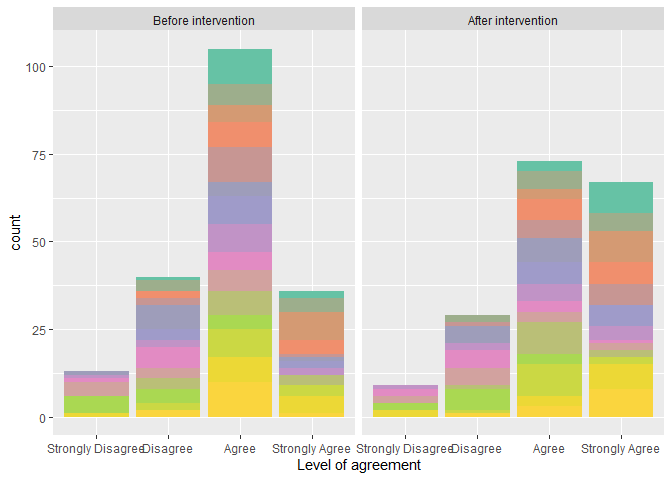
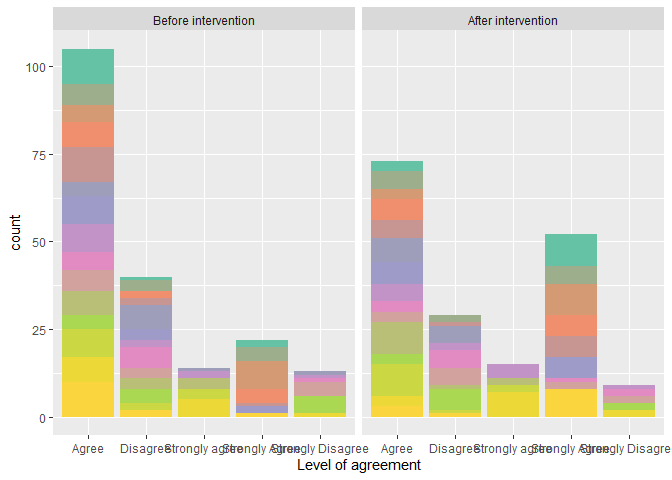
Updated instruction file

diff --git a/R/rock_climbing_data_clean.md b/R/rock_climbing_data_clean.md
@@ -1,4 +1,4 @@
-Rock climbing survey data claning & analysis
+Rock climbing survey data claning
 ================
 Sunny Tseng
 2023-03-05
@@ -123,23 +123,7 @@ compiled a dataframe to show individual participant information.
 # There are many mis-match between s3 and s1&s2. Need check!
 
 names(data_c1_s1_clean_1)[23] <- names(data_c1_s2_clean)[23] 
-data_c1_clean <- bind_rows(data_c1_s1_clean_1, data_c1_s2_clean) %>%
-    mutate_at(c(5:24), ~recode(., "Strongly Agree" = 4,
-                             "Strongly agree" = 4,
-                             "Agree" = 3,
-                             "Disagree" = 2,
-                             "Strongly Disagree" = 1,
-                             "Strongly disagree" = 1),
-            na.rm = TRUE) %>%
-    mutate_at(c(5:24), ~recode(., "4" = "Strongly Agree",
-                               "3" = "Agree",
-                               "2" = "Disagree",
-                               "1" = "Strongly Disagree")) %>%
-    mutate_at(c(5:24), ~ factor(., levels = c("Strongly Disagree",
-                                              "Disagree",
-                                              "Agree",
-                                              "Strongly Agree"))) 
-
+data_c1_clean <- bind_rows(data_c1_s1_clean_1, data_c1_s2_clean) 
 
 data_c1_clean %>% str()
 ```
@@ -149,26 +133,26 @@ data_c1_clean %>% str()
     ##  $ Collector ID                                                                                       : num [1:25] 2.7e+08 2.7e+08 2.7e+08 2.7e+08 2.7e+08 ...
     ##  $ indoor_style_practice                                                                              : chr [1:25] "Bouldering" "Bouldering" "Bouldering" "Bouldering" ...
     ##  $ outdoor_style_practice                                                                             : chr [1:25] "Bouldering" "" "" "" ...
-    ##  $ I love to climb                                                                                    : Factor w/ 4 levels "Strongly Disagree",..: 3 3 2 3 3 2 3 3 3 4 ...
-    ##  $ Climbing is fun                                                                                    : Factor w/ 4 levels "Strongly Disagree",..: 3 3 3 3 4 2 3 3 3 4 ...
-    ##  $ I am motivated to climb                                                                            : Factor w/ 4 levels "Strongly Disagree",..: 3 3 3 3 3 3 2 3 2 4 ...
-    ##  $ I feel encouraged in my climbing                                                                   : Factor w/ 4 levels "Strongly Disagree",..: 3 3 2 3 4 2 3 3 3 4 ...
-    ##  $ I feel hindered in my climbing                                                                     : Factor w/ 4 levels "Strongly Disagree",..: 1 2 3 2 2 4 2 3 2 3 ...
-    ##  $ I am inspired to climb by my female-identified climbing friends                                    : Factor w/ 4 levels "Strongly Disagree",..: 4 3 4 4 4 3 3 3 4 4 ...
-    ##  $ I am inspired to climb by films showcasing outdoor women climbers                                  : Factor w/ 4 levels "Strongly Disagree",..: 3 3 3 4 4 2 4 2 4 3 ...
-    ##  $ I am inspired to spend more time outdoors after watching films that showcase outdoor women climbers: Factor w/ 4 levels "Strongly Disagree",..: 3 3 3 4 4 3 4 2 4 3 ...
-    ##  $ I feel represented within the climbing community                                                   : Factor w/ 4 levels "Strongly Disagree",..: 3 3 2 1 3 1 3 2 2 3 ...
-    ##  $ I feel outdoor climbing guides are representative of the larger Vancouver and Squamish area        : Factor w/ 4 levels "Strongly Disagree",..: 3 2 NA 1 3 2 3 2 3 3 ...
-    ##  $ I feel welcomed in the climbing community                                                          : Factor w/ 4 levels "Strongly Disagree",..: 3 3 3 3 4 2 3 3 3 4 ...
-    ##  $ I feel safe in the climbing community                                                              : Factor w/ 4 levels "Strongly Disagree",..: 3 3 2 3 4 2 3 2 3 4 ...
-    ##  $ I feel connected to the climbing community                                                         : Factor w/ 4 levels "Strongly Disagree",..: 3 3 2 2 3 2 3 2 2 4 ...
-    ##  $ I feel the climbing community reflects the diversity of Vancouver and Squamish areas               : Factor w/ 4 levels "Strongly Disagree",..: 3 3 2 1 3 1 3 2 2 1 ...
-    ##  $ I feel it is possible for anyone to progress in climbing                                           : Factor w/ 4 levels "Strongly Disagree",..: 3 3 2 1 4 2 3 4 3 3 ...
-    ##  $ I find indoor climbing more accessible than outdoor climbing                                       : Factor w/ 4 levels "Strongly Disagree",..: 3 3 4 1 3 3 4 3 4 3 ...
-    ##  $ I find it difficult to find the resources to go outdoor climbing                                   : Factor w/ 4 levels "Strongly Disagree",..: 3 3 3 4 3 4 4 3 4 4 ...
-    ##  $ I find it difficult to find the time to go outdoor climbing                                        : Factor w/ 4 levels "Strongly Disagree",..: 3 2 2 2 4 4 3 3 3 3 ...
-    ##  $ I find it difficult to find transportation to outdoor climbing                                     : Factor w/ 4 levels "Strongly Disagree",..: 3 2 4 4 2 4 2 3 2 4 ...
-    ##  $ I find it difficult to find friends to go outdoor climbing with                                    : Factor w/ 4 levels "Strongly Disagree",..: 3 3 3 4 3 4 4 3 4 3 ...
+    ##  $ I love to climb                                                                                    : chr [1:25] "Agree" "Agree" "Disagree" "Agree" ...
+    ##  $ Climbing is fun                                                                                    : chr [1:25] "Agree" "Agree" "Agree" "Agree" ...
+    ##  $ I am motivated to climb                                                                            : chr [1:25] "Agree" "Agree" "Agree" "Agree" ...
+    ##  $ I feel encouraged in my climbing                                                                   : chr [1:25] "Agree" "Agree" "Disagree" "Agree" ...
+    ##  $ I feel hindered in my climbing                                                                     : chr [1:25] "Strongly Disagree" "Disagree" "Agree" "Disagree" ...
+    ##  $ I am inspired to climb by my female-identified climbing friends                                    : chr [1:25] "Strongly Agree" "Agree" "Strongly Agree" "Strongly Agree" ...
+    ##  $ I am inspired to climb by films showcasing outdoor women climbers                                  : chr [1:25] "Agree" "Agree" "Agree" "Strongly Agree" ...
+    ##  $ I am inspired to spend more time outdoors after watching films that showcase outdoor women climbers: chr [1:25] "Agree" "Agree" "Agree" "Strongly Agree" ...
+    ##  $ I feel represented within the climbing community                                                   : chr [1:25] "Agree" "Agree" "Disagree" "Strongly Disagree" ...
+    ##  $ I feel outdoor climbing guides are representative of the larger Vancouver and Squamish area        : chr [1:25] "Agree" "Disagree" NA "Strongly Disagree" ...
+    ##  $ I feel welcomed in the climbing community                                                          : chr [1:25] "Agree" "Agree" "Agree" "Agree" ...
+    ##  $ I feel safe in the climbing community                                                              : chr [1:25] "Agree" "Agree" "Disagree" "Agree" ...
+    ##  $ I feel connected to the climbing community                                                         : chr [1:25] "Agree" "Agree" "Disagree" "Disagree" ...
+    ##  $ I feel the climbing community reflects the diversity of Vancouver and Squamish areas               : chr [1:25] "Agree" "Agree" "Disagree" "Strongly Disagree" ...
+    ##  $ I feel it is possible for anyone to progress in climbing                                           : chr [1:25] "Agree" "Agree" "Disagree" "Strongly Disagree" ...
+    ##  $ I find indoor climbing more accessible than outdoor climbing                                       : chr [1:25] "Agree" "Agree" "Strongly agree" "Strongly Disagree" ...
+    ##  $ I find it difficult to find the resources to go outdoor climbing                                   : chr [1:25] "Agree" "Agree" "Agree" "Strongly Agree" ...
+    ##  $ I find it difficult to find the time to go outdoor climbing                                        : chr [1:25] "Agree" "Disagree" "Disagree" "Disagree" ...
+    ##  $ I find it difficult to find transportation to outdoor climbing                                     : chr [1:25] "Agree" "Disagree" "Strongly Agree" "Strongly Agree" ...
+    ##  $ I find it difficult to find friends to go outdoor climbing with                                    : chr [1:25] "Agree" "Agree" "Agree" "Strongly Agree" ...
     ##  $ cohort                                                                                             : chr [1:25] "c1" "c1" "c1" "c1" ...
     ##  $ survey                                                                                             : chr [1:25] "s1" "s1" "s1" "s1" ...
 
@@ -245,22 +229,7 @@ For cohort 2, final summary:
 # s2 says "I find it difficult to find transportation to outdoor climbing"
 
 names(data_c2_s1_clean)[23] <- names(data_c2_s2_clean)[23] 
-data_c2_clean <- bind_rows(data_c2_s1_clean, data_c2_s2_clean) %>%
-    mutate_at(c(5:24), ~recode(., "Strongly Agree" = 4,
-                             "Strongly agree" = 4,
-                             "Agree" = 3,
-                             "Disagree" = 2,
-                             "Strongly Disagree" = 1,
-                             "Strongly disagree" = 1),
-            na.rm = TRUE) %>%
-    mutate_at(c(5:24), ~recode(., "4" = "Strongly Agree",
-                               "3" = "Agree",
-                               "2" = "Disagree",
-                               "1" = "Strongly Disagree")) %>%
-    mutate_at(c(5:24), ~ factor(., levels = c("Strongly Disagree",
-                                              "Disagree",
-                                              "Agree",
-                                              "Strongly Agree"))) 
+data_c2_clean <- bind_rows(data_c2_s1_clean, data_c2_s2_clean) 
 
 data_c2_clean %>% str()
 ```
@@ -270,26 +239,26 @@ data_c2_clean %>% str()
     ##  $ Collector ID                                                                                       : num [1:24] 2.7e+08 2.7e+08 2.7e+08 2.7e+08 2.7e+08 ...
     ##  $ indoor_style_practice                                                                              : chr [1:24] "" "Bouldering" "Bouldering,Top-rope" "" ...
     ##  $ outdoor_style_practice                                                                             : chr [1:24] "" "" "Bouldering" "" ...
-    ##  $ I love to climb                                                                                    : Factor w/ 4 levels "Strongly Disagree",..: 4 2 4 3 3 3 2 3 3 3 ...
-    ##  $ Climbing is fun                                                                                    : Factor w/ 4 levels "Strongly Disagree",..: 4 3 4 3 4 3 2 3 3 4 ...
-    ##  $ I am motivated to climb                                                                            : Factor w/ 4 levels "Strongly Disagree",..: 4 3 4 3 2 3 3 3 3 4 ...
-    ##  $ I feel encouraged in my climbing                                                                   : Factor w/ 4 levels "Strongly Disagree",..: 4 3 4 4 2 4 2 2 3 4 ...
-    ##  $ I feel hindered in my climbing                                                                     : Factor w/ 4 levels "Strongly Disagree",..: 2 3 2 2 4 2 3 3 3 3 ...
-    ##  $ I am inspired to climb by my female-identified climbing friends                                    : Factor w/ 4 levels "Strongly Disagree",..: 4 4 4 4 2 4 3 4 2 3 ...
-    ##  $ I am inspired to climb by films showcasing outdoor women climbers                                  : Factor w/ 4 levels "Strongly Disagree",..: 3 4 3 3 3 4 3 3 3 1 ...
-    ##  $ I am inspired to spend more time outdoors after watching films that showcase outdoor women climbers: Factor w/ 4 levels "Strongly Disagree",..: 3 3 4 3 3 4 3 3 2 3 ...
-    ##  $ I feel represented within the climbing community                                                   : Factor w/ 4 levels "Strongly Disagree",..: 2 3 2 2 1 3 1 2 3 1 ...
-    ##  $ I feel outdoor climbing guides are representative of the larger Vancouver and Squamish area        : Factor w/ 4 levels "Strongly Disagree",..: 2 2 2 2 2 2 1 2 NA 3 ...
-    ##  $ I feel welcomed in the climbing community                                                          : Factor w/ 4 levels "Strongly Disagree",..: 3 3 4 3 3 3 2 3 2 3 ...
-    ##  $ I feel safe in the climbing community                                                              : Factor w/ 4 levels "Strongly Disagree",..: 3 3 4 3 3 3 2 3 2 3 ...
-    ##  $ I feel connected to the climbing community                                                         : Factor w/ 4 levels "Strongly Disagree",..: 2 2 4 2 2 2 2 2 2 2 ...
-    ##  $ I feel the climbing community reflects the diversity of Vancouver and Squamish areas               : Factor w/ 4 levels "Strongly Disagree",..: 1 2 2 2 2 2 1 3 2 3 ...
-    ##  $ I feel it is possible for anyone to progress in climbing                                           : Factor w/ 4 levels "Strongly Disagree",..: 4 4 4 3 3 3 2 3 2 3 ...
-    ##  $ I find indoor climbing more accessible than outdoor climbing                                       : Factor w/ 4 levels "Strongly Disagree",..: 3 4 4 4 3 4 3 4 4 3 ...
-    ##  $ I find it difficult to find the resources to go outdoor climbing                                   : Factor w/ 4 levels "Strongly Disagree",..: 4 3 4 2 4 3 3 4 4 3 ...
-    ##  $ I find it difficult to find the time to go outdoor climbing                                        : Factor w/ 4 levels "Strongly Disagree",..: 3 2 4 3 2 3 4 3 4 2 ...
-    ##  $ I find it difficult to find transportation to outdoor climbing                                     : Factor w/ 4 levels "Strongly Disagree",..: 4 2 4 3 4 2 4 4 2 2 ...
-    ##  $ I find it difficult to find friends to go outdoor climbing with                                    : Factor w/ 4 levels "Strongly Disagree",..: 3 2 4 3 4 3 4 4 4 3 ...
+    ##  $ I love to climb                                                                                    : chr [1:24] "Strongly Agree" "Disagree" "Strongly Agree" "Agree" ...
+    ##  $ Climbing is fun                                                                                    : chr [1:24] "Strongly Agree" "Agree" "Strongly Agree" "Agree" ...
+    ##  $ I am motivated to climb                                                                            : chr [1:24] "Strongly Agree" "Agree" "Strongly Agree" "Agree" ...
+    ##  $ I feel encouraged in my climbing                                                                   : chr [1:24] "Strongly Agree" "Agree" "Strongly Agree" "Strongly Agree" ...
+    ##  $ I feel hindered in my climbing                                                                     : chr [1:24] "Disagree" "Agree" "Disagree" "Disagree" ...
+    ##  $ I am inspired to climb by my female-identified climbing friends                                    : chr [1:24] "Strongly Agree" "Strongly Agree" "Strongly Agree" "Strongly Agree" ...
+    ##  $ I am inspired to climb by films showcasing outdoor women climbers                                  : chr [1:24] "Agree" "Strongly Agree" "Agree" "Agree" ...
+    ##  $ I am inspired to spend more time outdoors after watching films that showcase outdoor women climbers: chr [1:24] "Agree" "Agree" "Strongly Agree" "Agree" ...
+    ##  $ I feel represented within the climbing community                                                   : chr [1:24] "Disagree" "Agree" "Disagree" "Disagree" ...
+    ##  $ I feel outdoor climbing guides are representative of the larger Vancouver and Squamish area        : chr [1:24] "Disagree" "Disagree" "Disagree" "Disagree" ...
+    ##  $ I feel welcomed in the climbing community                                                          : chr [1:24] "Agree" "Agree" "Strongly agree" "Agree" ...
+    ##  $ I feel safe in the climbing community                                                              : chr [1:24] "Agree" "Agree" "Strongly agree" "Agree" ...
+    ##  $ I feel connected to the climbing community                                                         : chr [1:24] "Disagree" "Disagree" "Strongly agree" "Disagree" ...
+    ##  $ I feel the climbing community reflects the diversity of Vancouver and Squamish areas               : chr [1:24] "Strongly Disagree" "Disagree" "Disagree" "Disagree" ...
+    ##  $ I feel it is possible for anyone to progress in climbing                                           : chr [1:24] "Strongly agree" "Strongly agree" "Strongly agree" "Agree" ...
+    ##  $ I find indoor climbing more accessible than outdoor climbing                                       : chr [1:24] "Agree" "Strongly agree" "Strongly agree" "Strongly agree" ...
+    ##  $ I find it difficult to find the resources to go outdoor climbing                                   : chr [1:24] "Strongly Agree" "Agree" "Strongly Agree" "Disagree" ...
+    ##  $ I find it difficult to find the time to go outdoor climbing                                        : chr [1:24] "Agree" "Disagree" "Strongly Agree" "Agree" ...
+    ##  $ I find it difficult to find transportation to outdoor climbing                                     : chr [1:24] "Strongly Agree" "Disagree" "Strongly Agree" "Agree" ...
+    ##  $ I find it difficult to find friends to go outdoor climbing with                                    : chr [1:24] "Agree" "Disagree" "Strongly Agree" "Agree" ...
     ##  $ cohort                                                                                             : chr [1:24] "c2" "c2" "c2" "c2" ...
     ##  $ survey                                                                                             : chr [1:24] "s1" "s1" "s1" "s1" ...
 
@@ -350,6 +319,7 @@ identical names.**
 ``` r
 data_c3_clean <- bind_rows(data_c3_s1_clean, data_c3_s2_clean) %>%
   select(where(function(x) is.na(x) %>% sum() < 10))
+
 data_c3_clean %>% str()
 ```
 
@@ -450,14 +420,15 @@ positive_c1_table <- data_c1_clean %>%
 positive_c1_table
 ```
 
-    ## # A tibble: 4 x 5
-    ## # Groups:   agreement [4]
+    ## # A tibble: 5 x 5
+    ## # Groups:   agreement [5]
     ##   agreement         n_before percent_before n_after percent_after
-    ##   <fct>                <int>          <dbl>   <int>         <dbl>
-    ## 1 Strongly Disagree       13           6.70       9          5.06
+    ##   <chr>                <int>          <dbl>   <int>         <dbl>
+    ## 1 Agree                  105          54.1       73         41.0 
     ## 2 Disagree                40          20.6       29         16.3 
-    ## 3 Agree                  105          54.1       73         41.0 
-    ## 4 Strongly Agree          36          18.6       67         37.6
+    ## 3 Strongly Agree          22          11.3       52         29.2 
+    ## 4 Strongly Disagree       13           6.70       9          5.06
+    ## 5 Strongly agree          14           7.22      15          8.43
 
 Negative questions for climbing - before & after intervention
 
@@ -512,11 +483,11 @@ negative_c1_table
     ## # A tibble: 4 x 5
     ## # Groups:   agreement [4]
     ##   agreement         n_before percent_before n_after percent_after
-    ##   <fct>                <int>          <dbl>   <int>         <dbl>
-    ## 1 Strongly Disagree        1           1.54       2          3.33
+    ##   <chr>                <int>          <dbl>   <int>         <dbl>
+    ## 1 Agree                   30          46.2       16         26.7 
     ## 2 Disagree                16          24.6       21         35   
-    ## 3 Agree                   30          46.2       16         26.7 
-    ## 4 Strongly Agree          18          27.7       21         35
+    ## 3 Strongly Agree          18          27.7       21         35   
+    ## 4 Strongly Disagree        1           1.54       2          3.33
 
 ### Statistical test for paired ordinal data
 

diff --git a/R/rock_climbing_analysis.md b/R/rock_climbing_analysis.md
@@ -1,0 +1,81 @@
+Rock climbing survey data analysis
+================
+Sunny
+2023-03-07
+
+### R packages
+
+``` r
+library(tidyverse)
+library(here)
+library(coin)
+```
+
+### Other functions
+
+``` r
+wilcox_table <- function(dataset, question_id){
+  
+  wilcox <- dataset %>%
+  select(`Respondent ID`, question_id, `survey`) %>%
+  mutate_at(c(2), ~recode(., "Strongly Agree" = 4,
+                          "Strongly agree" = 4,
+                          "Agree" = 3,
+                          "Disagree" = 2,
+                          "Strongly Disagree" = 1,
+                          "Strongly disagree" = 1,
+                          
+                          "Very Likely" = 3,
+                          "Very likely" = 3,
+                          "Somewhat Likely" = 2,
+                          "Somewhat likely" = 2,
+                          "Not Likely" = 1,
+                          "Not likely" = 1,
+                          
+                          "Absolutely Essential" = 5,
+                          "Very Important" = 4,
+                          "Of Average Importance" = 3,
+                          "Of Little Importance" = 2,
+                          "Not Important At All" = 1),
+            na.rm = TRUE) %>%
+  pivot_wider(names_from = survey, values_from = c(2)) 
+
+return(wilcox)
+}
+```
+
+### Import data
+
+``` r
+data_c1 <- read_csv(here("data", "processed", "data_c1_clean.csv"))
+data_c2 <- read_csv(here("data", "processed", "data_c2_clean.csv"))
+data_c3 <- read_csv(here("data", "processed", "data_c3_clean.csv"))
+```
+
+### Wilcoxon matched-pairs signed rank test for single question
+
+``` r
+wilcox <- wilcox_table(dataset = data_c1, question_id = 5)
+
+wilcox %>%
+  mutate(difference = s2 - s1,
+         direction = if_else(difference >= 0, "positive", "negative")) %>%
+  ggplot() +
+    geom_bar(aes(difference, fill = direction)) +
+    theme_bw()
+```
+
+![](rock_climbing_analysis_files/figure-gfm/unnamed-chunk-4-1.png)<!-- -->
+
+``` r
+wilcoxsign_test(wilcox$s1 ~ wilcox$s2, 
+                zero.method = "Wilcoxon")
+```
+
+    ## 
+    ##  Asymptotic Wilcoxon Signed-Rank Test
+    ## 
+    ## data:  y by x (pos, neg) 
+    ##   stratified by block
+    ## Z = -1.9993, p-value = 0.04558
+    ## alternative hypothesis: true mu is not equal to 0
